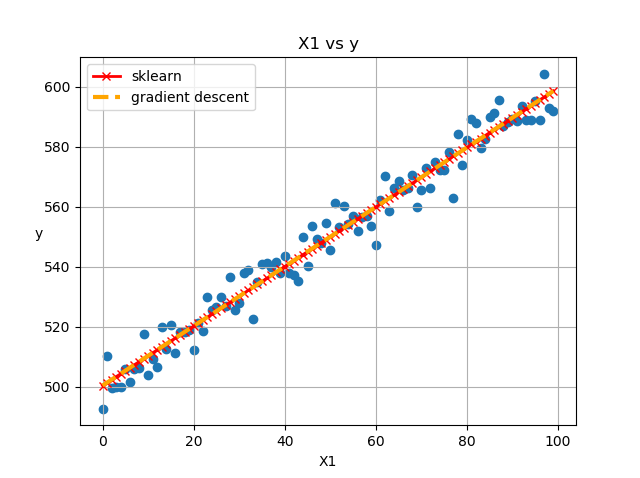
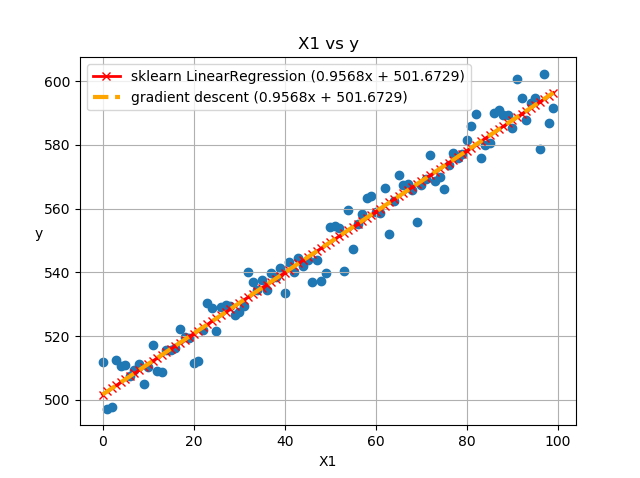
update

diff --git a/linear_regression.py b/linear_regression.py
@@ -35,7 +35,7 @@ class Linear_regression():
         #2 
         thetas = np.zeros((1, self.X.shape[1]))    
         #3
-        for _ in range(500000):
+        for _ in range(1000000):
             M = self.X.shape[0] # number of training example
             if _ %5000 == 0:
                 loss =  0.5/M * np.sum((np.dot(thetas, self.X.T) - self.y)**2)
@@ -77,10 +77,10 @@ if __name__ == "__main__":
     clf = LinearRegression()
     clf = clf.fit(X, y)
     m, c = clf.coef_[0], clf.intercept_
-    ax1.plot(X1, list(map(lambda x: m*x + c, X1)), label = "sklearn", marker = "x", color = "r", linewidth = 2) 
+    ax1.plot(X1, list(map(lambda x: m*x + c, X1)), label = "sklearn LinearRegression ({0}x + {1})".format(round(m,4), round(c,4)), marker = "x", color = "r", linewidth = 2) 
 #    m, c = linregress(X1.flatten(), y)[:2]
 #    ax1.scatter(X1, list(map(lambda x: m*x + c, X1)), label = "scipy")
-    ax1.plot(X1, list(map(lambda x: thetas[0][1]*x + thetas[0][0], X1)), label = "gradient descent", linestyle = "--", color = "orange", linewidth = 3)   
+    ax1.plot(X1, list(map(lambda x: thetas[0][1]*x + thetas[0][0], X1)), label = "gradient descent ({0}x + {1})".format(round(thetas[0][1], 4),  round(thetas[0][0],4)), linestyle = "--", color = "orange", linewidth = 3)   
     ax1.legend()
     ax1.grid()
     
